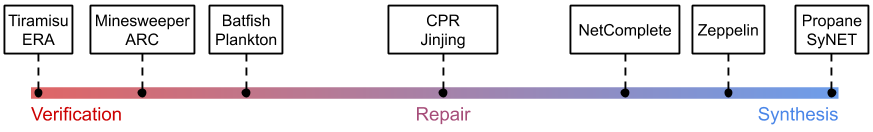
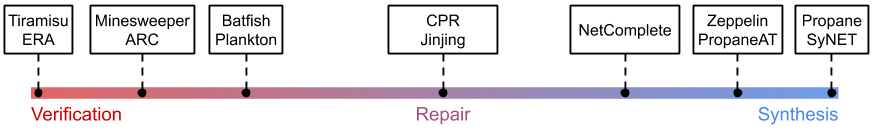
Addressed Ratul's feedback

diff --git a/_posts/2020-07-20-the-verification-synthesis-spectrum.md b/_posts/2020-07-20-the-verification-synthesis-spectrum.md
@@ -37,7 +37,11 @@ On the far left are configuration verifiers that take a networks’ current conf
 
 However, some verifiers provide more than a simple yes/no answer for each forwarding requirement. For example, [Minesweeper](https://ratul.org/papers/sigcomm2017-minesweeper.pdf) and [ARC](http://aaron.gember-jacobson.com/docs/gember-jacobson2016arc.pdf) both produce a concrete counterexample---e.g., a failure scenario and resulting forwarding path---for each violated requirement. Going a step further, [Batfish](https://www.usenix.org/system/files/conference/nsdi15/nsdi15-paper-fogel.pdf) and [Plankton](https://www.usenix.org/system/files/nsdi20-paper-prabhu.pdf) produce complete forwarding information bases (FIBs), and Batfish tracks the provenance of each FIB entry, such that a network engineer can trace the sequence of events and set of configuration statements that led to the FIB entry’s existence. 
 
-Similarly, not all synthesizers produce configurations entirely from scratch. For example, [Zeppelin](http://pages.cs.wisc.edu/~sskausik08/papers/sigmetrics18zeppelin.pdf) allows a network engineer to specify policies regarding configuration structure---e.g., which routers should run BGP? how many OSPF areas should there be?---which inform the structure of the synthesized configurations. Going a step further, [NetComplete](https://vanbever.eu/pdfs/vanbever_netcomplete_nsdi_2018.pdf) requires network engineers to provide a configuration template with holes for key parameters---e.g., link costs, route filter match criteria, etc.---and synthesizes values for these holes, rather than the complete configuration.
+Similarly, not all synthesizers produce configurations entirely from scratch. 
+For example, [Propane/AT](https://ratul.org/papers/pldi2017-propaneat.pdf)
+synthesizes abstract templates based on device roles (e.g., _core_ and
+_border_ routers) and generates/updates concrete configurations as the
+topology grows. Similarly, [Zeppelin](http://pages.cs.wisc.edu/~sskausik08/papers/sigmetrics18zeppelin.pdf) allows a network engineer to specify policies regarding configuration structure---e.g., which routers should run BGP? how many OSPF areas should there be?---which inform the structure of the synthesized configurations. Going a step further, [NetComplete](https://vanbever.eu/pdfs/vanbever_netcomplete_nsdi_2018.pdf) requires network engineers to provide a configuration template with holes for key parameters---e.g., link costs, route filter match criteria, etc.---and synthesizes values for these holes, rather than the complete configuration.
 
 (We’ll discuss the middle of the spectrum, which includes [CPR](https://aaron.gember-jacobson.com/docs/gember-jacobson2017cpr.pdf) and [Jinjing](https://dlnext.acm.org/doi/abs/10.1145/3341302.3342088), later in this article.)
 
@@ -51,7 +55,30 @@ The spectrum of configuration verifiers and synthesizers that exist today raises
 
 One way to approach this is to ask a slightly different question: _are you working with a greenfield or a brownfield network?_ A greenfield (i.e., brand new) network is a perfect opportunity to employ configuration synthesis, because a greenfield network does not have any existing configurations. There may be configuration templates that were used in other (similar) networks, which could motivate choosing a partial configuration synthesizer (e.g., [NetComplete](https://vanbever.eu/pdfs/vanbever_netcomplete_nsdi_2018.pdf)) as opposed to a complete configuration synthesizer (e.g., [Propane](https://ratul.org/papers/sigcomm2016-propane.pdf) and [SyNET](https://vanbever.eu/pdfs/vanbever_synet_cav_2017.pdf)). In contrast, network verifiers are often better suited for a brownfield (i.e., partially existing) network, because configurations already exist, changes are often small, and network engineers already have established network management practices. (These observations are supported by studies of configuration changes in [large university campus networks](https://conferences.sigcomm.org/imc/2011/docs/p499.pdf) and [large data center networks](https://conferences2.sigcomm.org/imc/2015/papers/p395.pdf).)
 
-A different way is to ask: _how much automated change are you willing to tolerate?_ Complete configuration synthesizers (e.g., [Propane](https://ratul.org/papers/sigcomm2016-propane.pdf) and [SyNET](https://vanbever.eu/pdfs/vanbever_synet_cav_2017.pdf)) completely ignore a network’s current configurations and synthesize brand-new configurations. This requires wholesale replacement of a network’s configurations each time forwarding policies change. Moreover, any hand-tuning of configurations may be wiped out. Partial configuration synthesizers (e.g., [NetComplete](https://vanbever.eu/pdfs/vanbever_netcomplete_nsdi_2018.pdf)) allow some aspects of a network’s configurations to remain fixed. However, it’s up to network engineers to determine how much of a configuration to manually specify (in a template) and how much to synthesize. More manual specification means more work for network engineers and a relaxation of the "correct-by-construction" guarantees provided by configuration synthesizers. In contrast, configuration verifiers are "read-only" insofar as they flag configuration errors but do not generate any part of the configurations. This allows network engineers to have complete control over configuration changes, which enables engineers to hand-tune changes according to existing network management practices and preserve their networks’ configuration "style."
+A different way is to ask: _how much automated change are you willing to
+tolerate?_ Clean-slate configuration synthesizers (e.g.,
+[Propane](https://ratul.org/papers/sigcomm2016-propane.pdf) and
+[SyNET](https://vanbever.eu/pdfs/vanbever_synet_cav_2017.pdf)) completely
+ignore a network’s current configurations and synthesize brand-new
+configurations. This requires wholesale replacement of a network’s
+configurations each time forwarding policies change, which is a risky and
+potentially disruptive operation---e.g., network engineers from a regional
+research and education network reported that flash reliability problems 
+cause some routers in their network to crash when the configuration is
+updated. Moreover, any hand-tuning of configurations may be wiped out. Partial
+configuration synthesizers (e.g.,
+[NetComplete](https://vanbever.eu/pdfs/vanbever_netcomplete_nsdi_2018.pdf) and
+[PropaneAT](https://ratul.org/papers/pldi2017-propaneat.pdf))
+allow some aspects of a network’s configurations to remain fixed. However,
+it’s up to network engineers to determine how much of a configuration to
+manually specify (in a template) and how much to synthesize. More manual
+specification means more work for network engineers and a relaxation of the
+"correct-by-construction" guarantees provided by configuration synthesizers.
+In contrast, configuration verifiers are "read-only" insofar as they flag
+configuration errors but do not generate any part of the configurations. This
+allows network engineers to have complete control over configuration changes,
+which enables engineers to hand-tune changes according to existing network
+management practices and preserve their networks’ configuration "style."
 
 ## A middle ground: configuration repair
 
